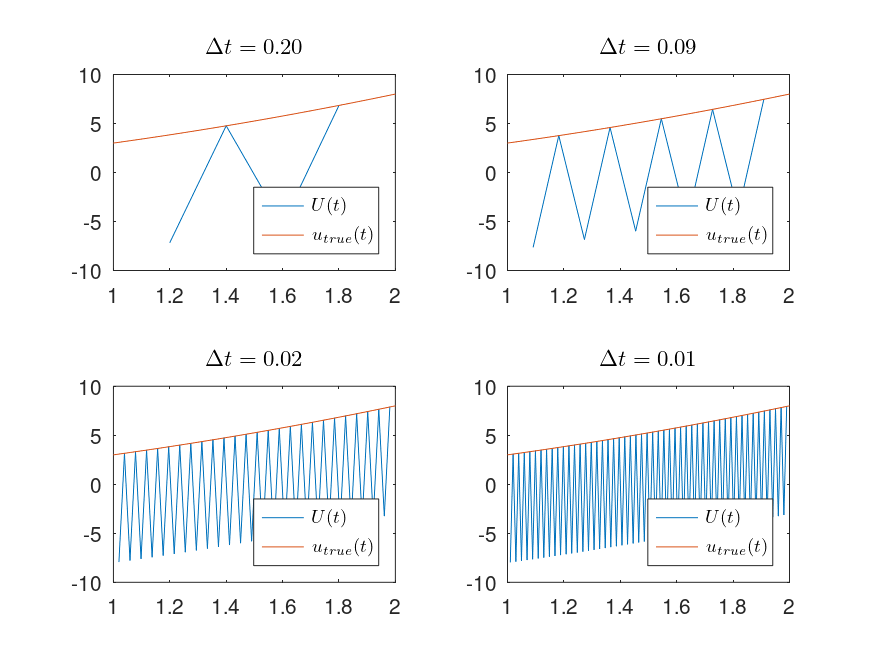
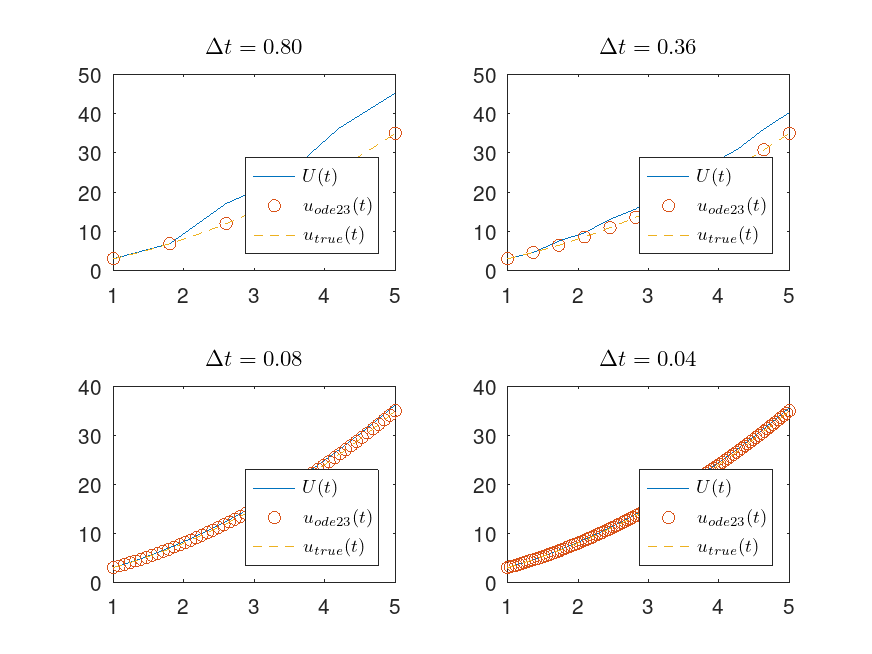
MATH5670: Definitely finished Exam1 Problem 2(b).

diff --git a/2022/fall/MATH5670_ScientificComputationI/Exam1/problem_2b.m b/2022/fall/MATH5670_ScientificComputationI/Exam1/problem_2b.m
@@ -2,13 +2,14 @@ clc
 clf
 
 steps = [4, 10, 50, 100];
-% steps = [4];
 
 t0 = 1;
-tf = 2;
+tf = 5;
 
 u0 = 3;
 
+% True solution, which in this case is known
+%
 u_true = @(t) t.^2 + 2.*t;
 tt = linspace(t0, tf);
 
@@ -19,29 +20,46 @@ title("Numerical solution to $u'(t) = 2(t+1)$", 'interpreter', 'latex');
 for i=1:length(steps)
     m = steps(i);
     k = (tf - t0) / (m+1);
+    t = linspace(t0, tf, m+2);
+
+    % Solve numerically to get required second point
+    %
+    [t_45, u_45] = ode45(@(t, u) 2*(t+1), t, u0);
+    u1 = u_45(2);
+
+    % Alternatively, we could find our needed second point via the analytical solution if known:
+    %
+    % u1 = u_true(t(2));
 
     % Create internal matrix A 
     %
-    e = ones(m, 1);
-    A = 1/(4*k) * spdiags([-e 0*e e], -1:1, m, m);
+    e = ones(m+2, 1);
+    A = 1/(4*k) * spdiags([-e 0*e e], -2:0, m+2, m+2);
 
     % RHS
     % 
-    b = zeros(m, 1);
-    b(1) = 2 + 1*k + u0/(4*k);
-    for j=2:m-1
+    b = zeros(m+2, 1);
+    b(1) = u0/(4*k);
+    b(2) = u1/(4*k);
+    for j=3:m+2
         b(j) = 2 + j*k;
     end
-    b(m) = 2 + m*k + u0/(4*k);
 
-    % disp(full(A));
-    % disp(b);
+    % disp([full(A) b]);
+
     u = A\b;    
 
     subplot(2, 2, i);
-    plot(linspace(t0 + k, tf-k, m), u, 'DisplayName', '$U(t)$');
+    plot(t, u, 'DisplayName', '$U(t)$');
     hold on;
-    plot(tt, u_true(tt), 'DisplayName', '$u_{true}(t)$')
+    % Plot against ode45 solution
+    %
+    plot(t_45, u_45, 'o', 'DisplayName', '$u_{ode23}(t)$')
+
+    % Alternatively, we can plot against the true solution if known:
+    %
+    plot(tt, u_true(tt), '--', 'DisplayName', '$u_{true}(t)$')
+
     title(sprintf('$\\Delta t = %3.2f$', k), 'interpreter', 'latex');
     legend('interpreter', 'latex', 'Location', 'southeast');
 end
